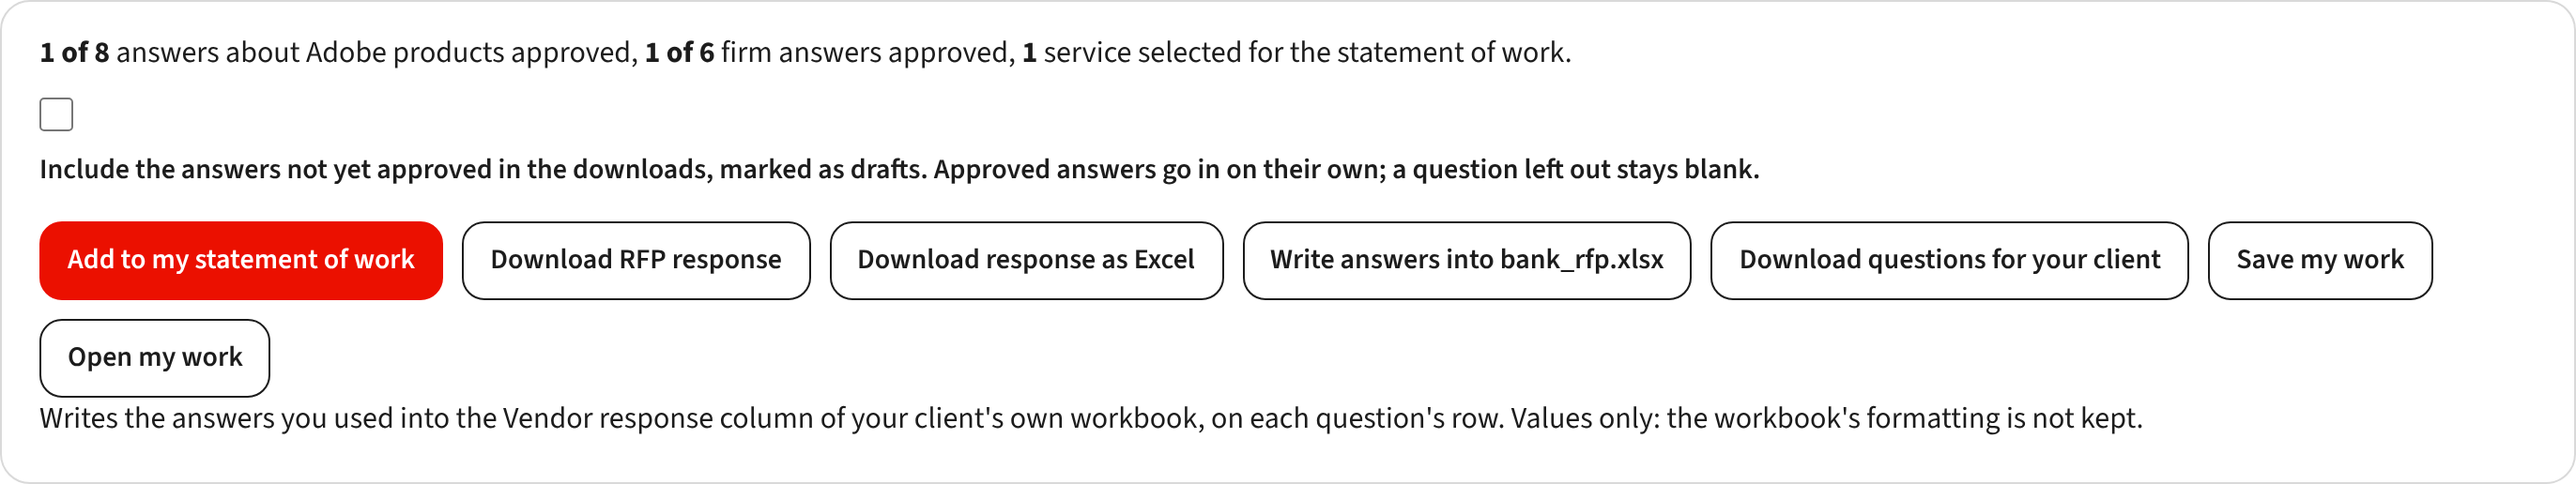
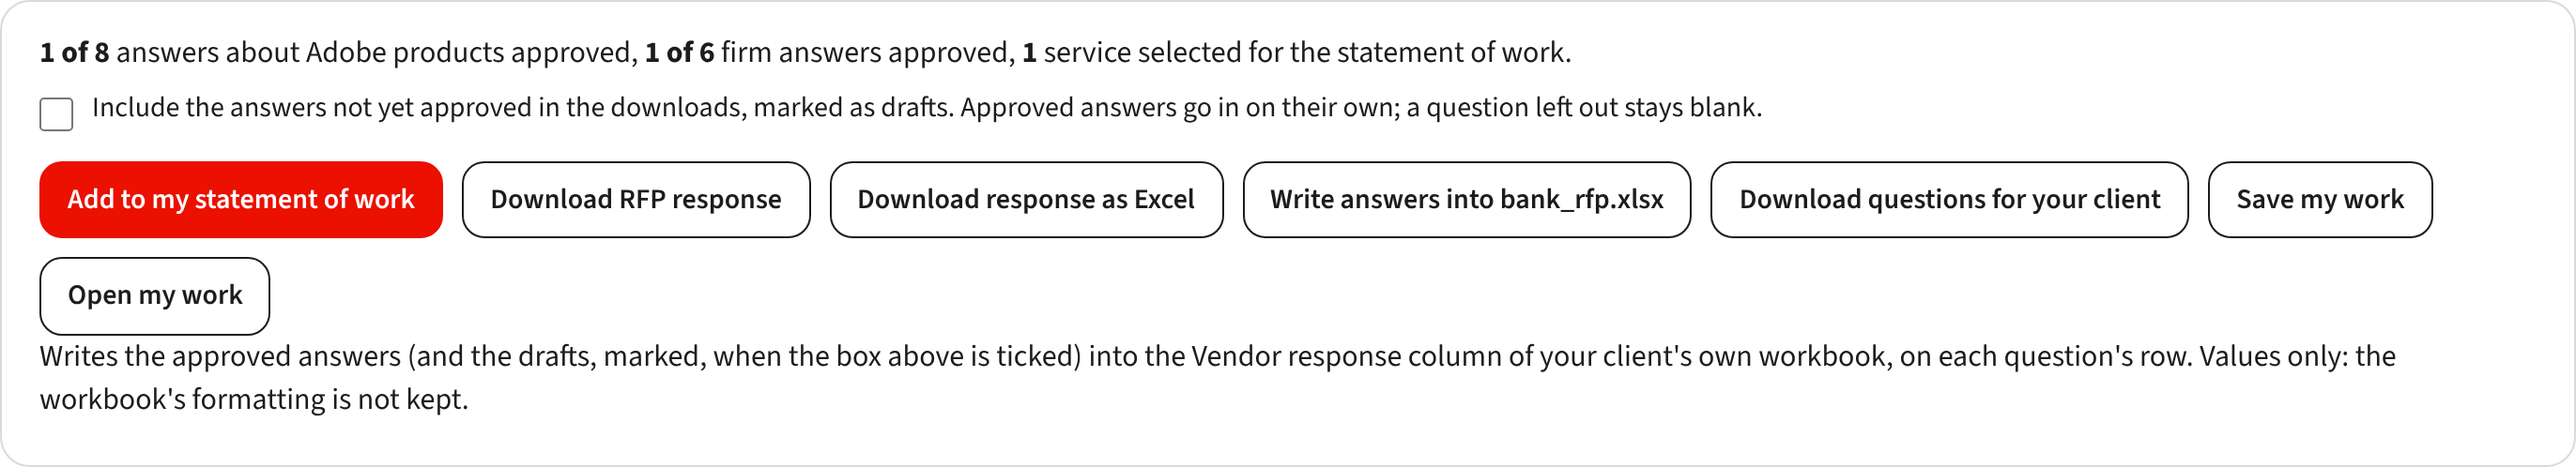
RFP Builder steps 55 and 56: the drafts box beside its text, the write-back note says approved, notes and screens [skip netlify]
Claude-Session: https://claude.ai/code/session_01XvxkNf6qQKhg7GRVsgLAX1

diff --git a/rfp_answers.js b/rfp_answers.js
@@ -592,7 +592,7 @@ function summary(){
   el.innerHTML='<p><b>'+used.length+' of '+adobe.length+'</b> answer'+(adobe.length===1?'':'s')+' about Adobe products approved, <b>'+written.length+' of '+firm.length+'</b> firm answer'+(firm.length===1?'':'s')+' approved, <b>'+lines.size+'</b> service'+(lines.size===1?'':'s')+' selected for the statement of work.</p>'+
     '<label class="rfp-include"><input type="checkbox" id="rfp-include-drafts"'+(rfpState.includeDrafts?' checked':'')+'><span>Include the answers not yet approved in the downloads, marked as drafts. Approved answers go in on their own; a question left out stays blank.</span></label>'+
     '<div class="rfp-actions"><button type="button" class="primary" id="rfp-to-sow"'+(lines.size?'':' disabled')+'>Add to my statement of work</button><button type="button" id="rfp-download">Download RFP response</button><button type="button" id="rfp-download-xlsx">Download response as Excel</button>'+(wb?'<button type="button" id="rfp-writeback">Write answers into '+esc(wb.w.name)+'</button>':'')+'<button type="button" id="rfp-download-asks">Download questions for your client</button><button type="button" id="rfp-save-work">Save my work</button><button type="button" id="rfp-open-work">Open my work</button></div>'+
-    (wb?'<p class="rfp-wb-note">Writes the answers you used into the '+esc(wb.head)+' column of your client\'s own workbook, on each question\'s row. Values only: the workbook\'s formatting is not kept.</p>':'');
+    (wb?'<p class="rfp-wb-note">Writes the approved answers (and the drafts, marked, when the box above is ticked) into the '+esc(wb.head)+' column of your client\'s own workbook, on each question\'s row. Values only: the workbook\'s formatting is not kept.</p>':'');
 }
 // the services behind the approved answers, minus the ones the partner unticked on the answer (step 56)
 function selectedLineIds(){const s=new Set();for(const q of rfpState.questions)if(q.status==='used'&&q.draft&&q.kind==='adobe')for(const id of q.draft.m.lines)if(!(q.lines&&q.lines[id]===false))s.add(id);return s;}
@@ -726,7 +726,7 @@ async function writeBack(){
   }
   const csv=W.type==='csv',out=X.write(W.wb,{bookType:csv?'csv':'xlsx',type:csv?'string':'array'});
   download(baseName(W.name)+'-answered.'+(csv?'csv':'xlsx'),out,csv?'text/csv':'application/vnd.openxmlformats-officedocument.spreadsheetml.sheet');
-  toast(n?n+' answer'+(n===1?'':'s')+' written into '+W.name+'.':'No answers used yet, so nothing was written. Use an answer first.');
+  toast(n?n+' answer'+(n===1?'':'s')+' written into '+W.name+'.':'No approved answers yet, so nothing was written. Approve an answer first, or tick the drafts box.');
 }
 
 /* ---------- wiring */

diff --git a/patch_step49.py b/patch_step49.py
@@ -127,7 +127,7 @@ CSS = '''
 .rfp-edited{font-size:14px;font-weight:600;margin:0 0 10px}
 /* steps 55 and 56: rows open from the keyboard, the drafts checkbox, the services behind an answer */
 .rfp-list li:focus-visible{outline:3px solid var(--red);outline-offset:2px}
-.rfp-include{display:flex;gap:10px;align-items:flex-start;font-size:15px;line-height:1.5;margin:4px 0 12px;cursor:pointer}
+.rfp-include{display:flex;flex-direction:row;gap:10px;align-items:flex-start;font-size:15px;font-weight:400;line-height:1.5;margin:4px 0 12px;cursor:pointer}
 .rfp-include input{width:18px;height:18px;margin:5px 0 0;accent-color:var(--red);flex:none}
 .rfp-lines{list-style:none !important;margin-left:0 !important}
 .rfp-lines li{display:block;margin:0 0 4px}

diff --git a/README.md b/README.md
@@ -71,7 +71,7 @@ Nov 8 2026 (Adam: finish the scrub ChatGPT started): twelve more rules for the f
 | `patch_step45.py`, `canvas/patch_step45.py`, `test_step45.js` | Step 45 (Nov 4, Adam: "go" on `mockups/nov4_outside_v2/` and `mockups/nov4_cdn_recommended/`): the CDN starts on the canvas in every Brand Visibility play with CDN log forwarding (OX1) on, here too (a new engagement starts those plays with the CDN; a saved one keeps its own), so each Brand Visibility play starts $2,400 higher at $150, Typical. These steps keep the new outside systems and AEM Assets on the AEM play through the hand-over (`OUTSIDE_MORE`); their services are research lines, so they arrive as service concepts and the catalog is unchanged. On Create your own play an outside system's catalog service counts only with the Adobe product it connects to (`OUT_WITH`: CJA for OX3 to OX5, Brand Visibility for OX1 and OX2), as the canvas counts it. `node sow/test_step45.js` (32 checks) drives both pages: the totals agree on every Brand Visibility play and on Create your own play with a warehouse or CRM beside Real-Time CDP, Journey Optimizer, Marketo or Target. Run on the step 44 file: `python3 patch_step45.py index.html`, then `canvas/build.py` and `build_site.py`. The test updates are `tests_step45.py` and `tests_step45_review.py` (and `check.py`: each Brand Visibility play starts 16 hours higher, with OX1). |
 | `sweep46_extract.py`, `sweep46_decisions.json`, `sweep46_apply.py`, `patch_step46.py`, `canvas/patch_step46.py`, `test_step46.js` | Step 46 (Nov 4, Adam: "always say your client", then "yes"): the client sweep. The statement of work calls the party the Client, the tool says "your client" to the partner, a client's own customers and Adobe's product names stay; every wording, its decision and why is in `review_step46_2026-11-04/CHANGES.md`. Saved engagements in the earlier wording take the new wording (PRIOR46, plus the FSI objective and the default responsibilities); edited text stays the partner's. A canvas research service reads "the Client" once it reaches these steps (`docVoice`), and the package it needs arrives as "Assumes the Client has ..." (no upsell note in the SOW). Code names (`state.customer`, `approvalCustomer`, `data-meta="customer"`) don't change, so saved work and drafts open as before. Run on the step 45 files: `python3 sweep46_apply.py`, `python3 patch_step46.py index.html`, `python3 canvas/patch_step46.py canvas/template.html`, then `canvas/build.py` and `build_site.py`; `node sow/test_step46.js` (17 checks). |
 | `patch_step47_sow.py`, `patch_step47_content.py`, `patch_step47_look.py`, `canvas/patch_step47*.py`, `canvas/data_step47*.py`, `test_step47.js` | Step 47 (Nov 5, Adam: "find everything that needs to be fixed and fix it all at once", then "yes, fix all 45"): the full audit's 45 findings (`audit_2026-11-05/FINDINGS.md`), fixed in three passes (these steps, the canvas, the wording and facts) and checked one by one by independent checkers. Among them: a saved engagement with a step 45 system on the canvas was wiped on the next load (it now loads after the values it needs, and a save that can't be opened is backed up, never overwritten); removing a system in focus view crashed the canvas; the canvas is usable on phones and tablets; licensing text says customers, the partner's work says your client or the Client; partner-internal notes no longer print in the SOW; cards never run off the screen or cover their own box or bolt. Changed service wording keeps its earlier text in PRIOR47. And the look Adam approved (`mockups/nov5_look/`): rounder corners on both pages. `node sow/test_step47.js` (100 checks). |
-| `rfp_prototype/`, `patch_step49.py`, `lib/`, `test_rfp.js`, `qa/rfp_fixtures/` | Step 49, part one (Nov 8, Adam: "a fifth tab called RFP Builder", "ok 3"; then: a half-built feature does not go in the product, it gets its own link): the RFP Builder prototype, built by `python3 sow/rfp_prototype/build.py` into `rfp_prototype/site/` as a copy of the SOW tool with the tab added by `patch_step49.py`, a "prototype, not the live tool" badge in the masthead and the readers in `lib/`. Nothing in the product (`index.html`, the canvas, `site/`) refers to it. The partner drops a client's RFP or RFI (PDF, Word, Excel, CSV or text; Nov 9, Adam: RFPs often arrive as spreadsheets, so SheetJS reads every sheet, a numbering cell joined to the question cell beside it); the page reads it in the browser with pdf.js, mammoth and SheetJS (loaded only when the tab opens, served from the same folder, so Proto needs no CDN), finds the questions (numbered items, question marks, request verbs such as describe, provide, explain; instructions like "respond to each item" and section headings are skipped) and sorts them into Adobe services, Your firm (references, team, pricing, legal) and Not sure, each movable from its row. Nothing about the RFP is sent anywhere or saved to browser storage. `node sow/test_rfp.js` (25 checks) uploads three made-up RFPs (`qa/rfp_fixtures/`, test data only, rebuilt by `make_fixtures.py`) and checks the piles, that no request leaves the page and that storage stays clean. Part two (Nov 9, Adam: "ok, lets go"): drafted answers, in `rfp_answers.js` (inlined by the patch, with a slim copy of the canvas catalog as `RFP_CAT`). A question's products are found from an alias list ("Experience Manager", "ChatGPT", "storefront", "leads"...); a connection answers only when the question names both of its products; the answer stitches the connection's how and gain, the matched services' scopes as "We will ...", the prerequisites as "What we would need from you", monthly lines as "After launch", and the Adobe sources, all converted to the partner's voice to the client ("your client" and "the Client" become "you", "the partner" becomes "we"). A question that names no product gets an answer only if it asks about ongoing work, drawn from the monthly lines of the products the rest of the RFP is about; hosting, security and licensing questions wait for the knowledge base. Use, Edit, Skip and Next on each answer; "Add to my statement of work" writes the same hand-off the canvas writes (Your own play, the products on the Build canvas, the used answers' services on) and opens Services; "Download RFP response" gives every question in the RFP's order with the used answers, drafts marked as not yet reviewed, and a blank space under the questions about the firm. Part three, the knowledge base, is next. All of it stays in the prototype until Adam says it is ready for the tool. To try it: upload `rfp_prototype/site/` to Proto as its own prototype (for example "sow-rfp-builder"); `rfp_prototype/try/` holds a made-up bank RFP as a spreadsheet to drop in. Nov 9, later (Adam: the response, then notes on what to ask the client for): the prerequisites leave the answer and become a boxed note for the partner, split into Part of this proposal (a license line about a product the RFP does not say the client owns, found by `LICENSE` and `ownedProducts()`) and Ask your client for; the response is labelled as the partner's words to the client, and Download questions for your client gives the partner that checklist on its own. Nov 9, night (Adam: "build"): See answer or Write answer on every row and the first Adobe answer open on load; a field under each ask whose text joins the response as "What you have in place"; a text box for firm questions; Download response as Excel (a Response sheet and a Sources sheet, written in the browser with SheetJS). 64 checks. Nov 9, late: three outside reviews (Opus 5.5, DeepSeek, Gemini) answered in `rfp_prototype/review_2026-11-09/RESPONSE.md`; 53 claims reproduced through `review_2026-11-09/harness.js` (43 confirmed, 8 partly, 2 not reproduced, 47 more found), seven steps proposed, waiting for Adam's picks. Nov 10 (Adam approved the first batch): steps 50 to 52 built in the prototype. The finder reads numbered and coded requirements, Mandatory and Desirable tags, sub-questions with their stem, lots and sections, and keeps a Not picked up list with Make this a question; the readers take spreadsheets, pasted tables, Word tables and PDFs row by row and every dropped file, the Excel export adds Section, Mandatory or desirable and Comply, and the answers used can be written back into the client's own workbook; the piles are Adobe products, Your firm and To sort, and the matcher drafts only from product names, honours "not", names products the catalog does not cover and gives fact questions the capability box. As-built notes `rfp_prototype/STEP50.md` to `STEP52.md`; checks `test_rfp_step50.js`, `test_rfp_step51.js`, `test_rfp_step52.js` and `review_2026-11-09/recheck.js`. Nov 10, later (Adam: "yes go ahead with 53 and 54"): step 53, client-safe wording. `connection_client` in `product_copy_rules.json` gives 36 connection cards a client-voice how and gain (sowHow, sowGain) and a partner-only sowNote, applied by `product_copy.sow_view`; the drafted answer prefers them, and the caution goes into the note. `line_scopes` rewords BI1, BI2, AD1 and AD2 to start with a verb, and `template_overrides` rewords O05, C05, C03, C02, CW01 and O09 (and their small and large bands) so no partner compound or Client-provided phrase reaches a client; `apply_review.py` records both texts as prior wording for saved drafts. The sentence builder keeps a leading clause ("Where ..., we will ...") and the voice rewrite handles the partner as an object, the partner compounds, "you and your client", Client-provided and Client authorization. Download RFP response is the client's copy, with no intro and no tags. Step 54, the client is told what we need: the note's four lists (Adobe licenses this proposal includes; Ask your client, each with a tick box; Confirm with Adobe; Assumptions behind this answer), no cap, each matched line's also-needs and tier; ticked asks join the response as "What we would need from you" in the SOW's client wording (sowPrereqs matched by words), typed notes as "What you already have in place, as confirmed with your team" led by the ask's subject; the note says it is internal; after Edit it says ticks no longer change the answer; the checklist download carries the four lists. Notes `rfp_prototype/STEP53.md`, `STEP54.md`; checks `test_rfp_step53.js` (68), `test_rfp_step54.js` (72, three rounds of skeptics' cases included); `clientScrub` in `rfp_answers.js` keeps every lifecycle label and every canvas sentence out of what the client reads, whatever the source; `qa/check_product_copy.py` and `qa/check_rendered_copy.js` now cover the client-voice fields and the prototype's drafted responses. The catalog changes rebuild the product (`apply_review.py`, `canvas/build.py`, `build_site.py`): `site/` is rebuilt, not deployed. |
+| `rfp_prototype/`, `patch_step49.py`, `lib/`, `test_rfp.js`, `qa/rfp_fixtures/` | Step 49, part one (Nov 8, Adam: "a fifth tab called RFP Builder", "ok 3"; then: a half-built feature does not go in the product, it gets its own link): the RFP Builder prototype, built by `python3 sow/rfp_prototype/build.py` into `rfp_prototype/site/` as a copy of the SOW tool with the tab added by `patch_step49.py`, a "prototype, not the live tool" badge in the masthead and the readers in `lib/`. Nothing in the product (`index.html`, the canvas, `site/`) refers to it. The partner drops a client's RFP or RFI (PDF, Word, Excel, CSV or text; Nov 9, Adam: RFPs often arrive as spreadsheets, so SheetJS reads every sheet, a numbering cell joined to the question cell beside it); the page reads it in the browser with pdf.js, mammoth and SheetJS (loaded only when the tab opens, served from the same folder, so Proto needs no CDN), finds the questions (numbered items, question marks, request verbs such as describe, provide, explain; instructions like "respond to each item" and section headings are skipped) and sorts them into Adobe services, Your firm (references, team, pricing, legal) and Not sure, each movable from its row. Nothing about the RFP is sent anywhere or saved to browser storage. `node sow/test_rfp.js` (25 checks) uploads three made-up RFPs (`qa/rfp_fixtures/`, test data only, rebuilt by `make_fixtures.py`) and checks the piles, that no request leaves the page and that storage stays clean. Part two (Nov 9, Adam: "ok, lets go"): drafted answers, in `rfp_answers.js` (inlined by the patch, with a slim copy of the canvas catalog as `RFP_CAT`). A question's products are found from an alias list ("Experience Manager", "ChatGPT", "storefront", "leads"...); a connection answers only when the question names both of its products; the answer stitches the connection's how and gain, the matched services' scopes as "We will ...", the prerequisites as "What we would need from you", monthly lines as "After launch", and the Adobe sources, all converted to the partner's voice to the client ("your client" and "the Client" become "you", "the partner" becomes "we"). A question that names no product gets an answer only if it asks about ongoing work, drawn from the monthly lines of the products the rest of the RFP is about; hosting, security and licensing questions wait for the knowledge base. Use, Edit, Skip and Next on each answer; "Add to my statement of work" writes the same hand-off the canvas writes (Your own play, the products on the Build canvas, the used answers' services on) and opens Services; "Download RFP response" gives every question in the RFP's order with the used answers, drafts marked as not yet reviewed, and a blank space under the questions about the firm. Part three, the knowledge base, is next. All of it stays in the prototype until Adam says it is ready for the tool. To try it: upload `rfp_prototype/site/` to Proto as its own prototype (for example "sow-rfp-builder"); `rfp_prototype/try/` holds a made-up bank RFP as a spreadsheet to drop in. Nov 9, later (Adam: the response, then notes on what to ask the client for): the prerequisites leave the answer and become a boxed note for the partner, split into Part of this proposal (a license line about a product the RFP does not say the client owns, found by `LICENSE` and `ownedProducts()`) and Ask your client for; the response is labelled as the partner's words to the client, and Download questions for your client gives the partner that checklist on its own. Nov 9, night (Adam: "build"): See answer or Write answer on every row and the first Adobe answer open on load; a field under each ask whose text joins the response as "What you have in place"; a text box for firm questions; Download response as Excel (a Response sheet and a Sources sheet, written in the browser with SheetJS). 64 checks. Nov 9, late: three outside reviews (Opus 5.5, DeepSeek, Gemini) answered in `rfp_prototype/review_2026-11-09/RESPONSE.md`; 53 claims reproduced through `review_2026-11-09/harness.js` (43 confirmed, 8 partly, 2 not reproduced, 47 more found), seven steps proposed, waiting for Adam's picks. Nov 10 (Adam approved the first batch): steps 50 to 52 built in the prototype. The finder reads numbered and coded requirements, Mandatory and Desirable tags, sub-questions with their stem, lots and sections, and keeps a Not picked up list with Make this a question; the readers take spreadsheets, pasted tables, Word tables and PDFs row by row and every dropped file, the Excel export adds Section, Mandatory or desirable and Comply, and the answers used can be written back into the client's own workbook; the piles are Adobe products, Your firm and To sort, and the matcher drafts only from product names, honours "not", names products the catalog does not cover and gives fact questions the capability box. As-built notes `rfp_prototype/STEP50.md` to `STEP52.md`; checks `test_rfp_step50.js`, `test_rfp_step51.js`, `test_rfp_step52.js` and `review_2026-11-09/recheck.js`. Nov 10, later (Adam: "yes go ahead with 53 and 54"): step 53, client-safe wording. `connection_client` in `product_copy_rules.json` gives 36 connection cards a client-voice how and gain (sowHow, sowGain) and a partner-only sowNote, applied by `product_copy.sow_view`; the drafted answer prefers them, and the caution goes into the note. `line_scopes` rewords BI1, BI2, AD1 and AD2 to start with a verb, and `template_overrides` rewords O05, C05, C03, C02, CW01 and O09 (and their small and large bands) so no partner compound or Client-provided phrase reaches a client; `apply_review.py` records both texts as prior wording for saved drafts. The sentence builder keeps a leading clause ("Where ..., we will ...") and the voice rewrite handles the partner as an object, the partner compounds, "you and your client", Client-provided and Client authorization. Download RFP response is the client's copy, with no intro and no tags. Step 54, the client is told what we need: the note's four lists (Adobe licenses this proposal includes; Ask your client, each with a tick box; Confirm with Adobe; Assumptions behind this answer), no cap, each matched line's also-needs and tier; ticked asks join the response as "What we would need from you" in the SOW's client wording (sowPrereqs matched by words), typed notes as "What you already have in place, as confirmed with your team" led by the ask's subject; the note says it is internal; after Edit it says ticks no longer change the answer; the checklist download carries the four lists. Notes `rfp_prototype/STEP53.md`, `STEP54.md`; checks `test_rfp_step53.js` (68), `test_rfp_step54.js` (72, three rounds of skeptics' cases included), steps 55 and 56 (Nov 10, Adam: "go": Approve and Leave out toggle, approved-only downloads with a drafts box, To review, Start over with a confirmation, the work kept in the tab and inside Save draft, service ticks the hand-off follows, a hand-off that previews and merges, Save my work and Open my work; `STEP55.md`, `STEP56.md`, `test_rfp_step55.js` 44); `clientScrub` in `rfp_answers.js` keeps every lifecycle label and every canvas sentence out of what the client reads, whatever the source; `qa/check_product_copy.py` and `qa/check_rendered_copy.js` now cover the client-voice fields and the prototype's drafted responses. The catalog changes rebuild the product (`apply_review.py`, `canvas/build.py`, `build_site.py`): `site/` is rebuilt, not deployed. |
 | `build_site.py` | Assembles `site/`: the canvas (`canvas/index.html`) as `site/index.html`, this tool as `site/sow/index.html`. `node test_site.js` click-tests the joined site over a local web server (ALL SITE CHECKS PASSED). Deploy `site/`. |
 | `canvas/` | Prototype of the proposed Build tab (architecture canvas), a separate page; see `canvas/README.md` and `CANVAS_CONCEPT.md`. Not deployed. |
 | `check.py` | Checks: `python3 check.py index.html [screenshot folder]` prints ✅/❌ lines and must end with ALL CHECKS PASSED. Needs Playwright. |
